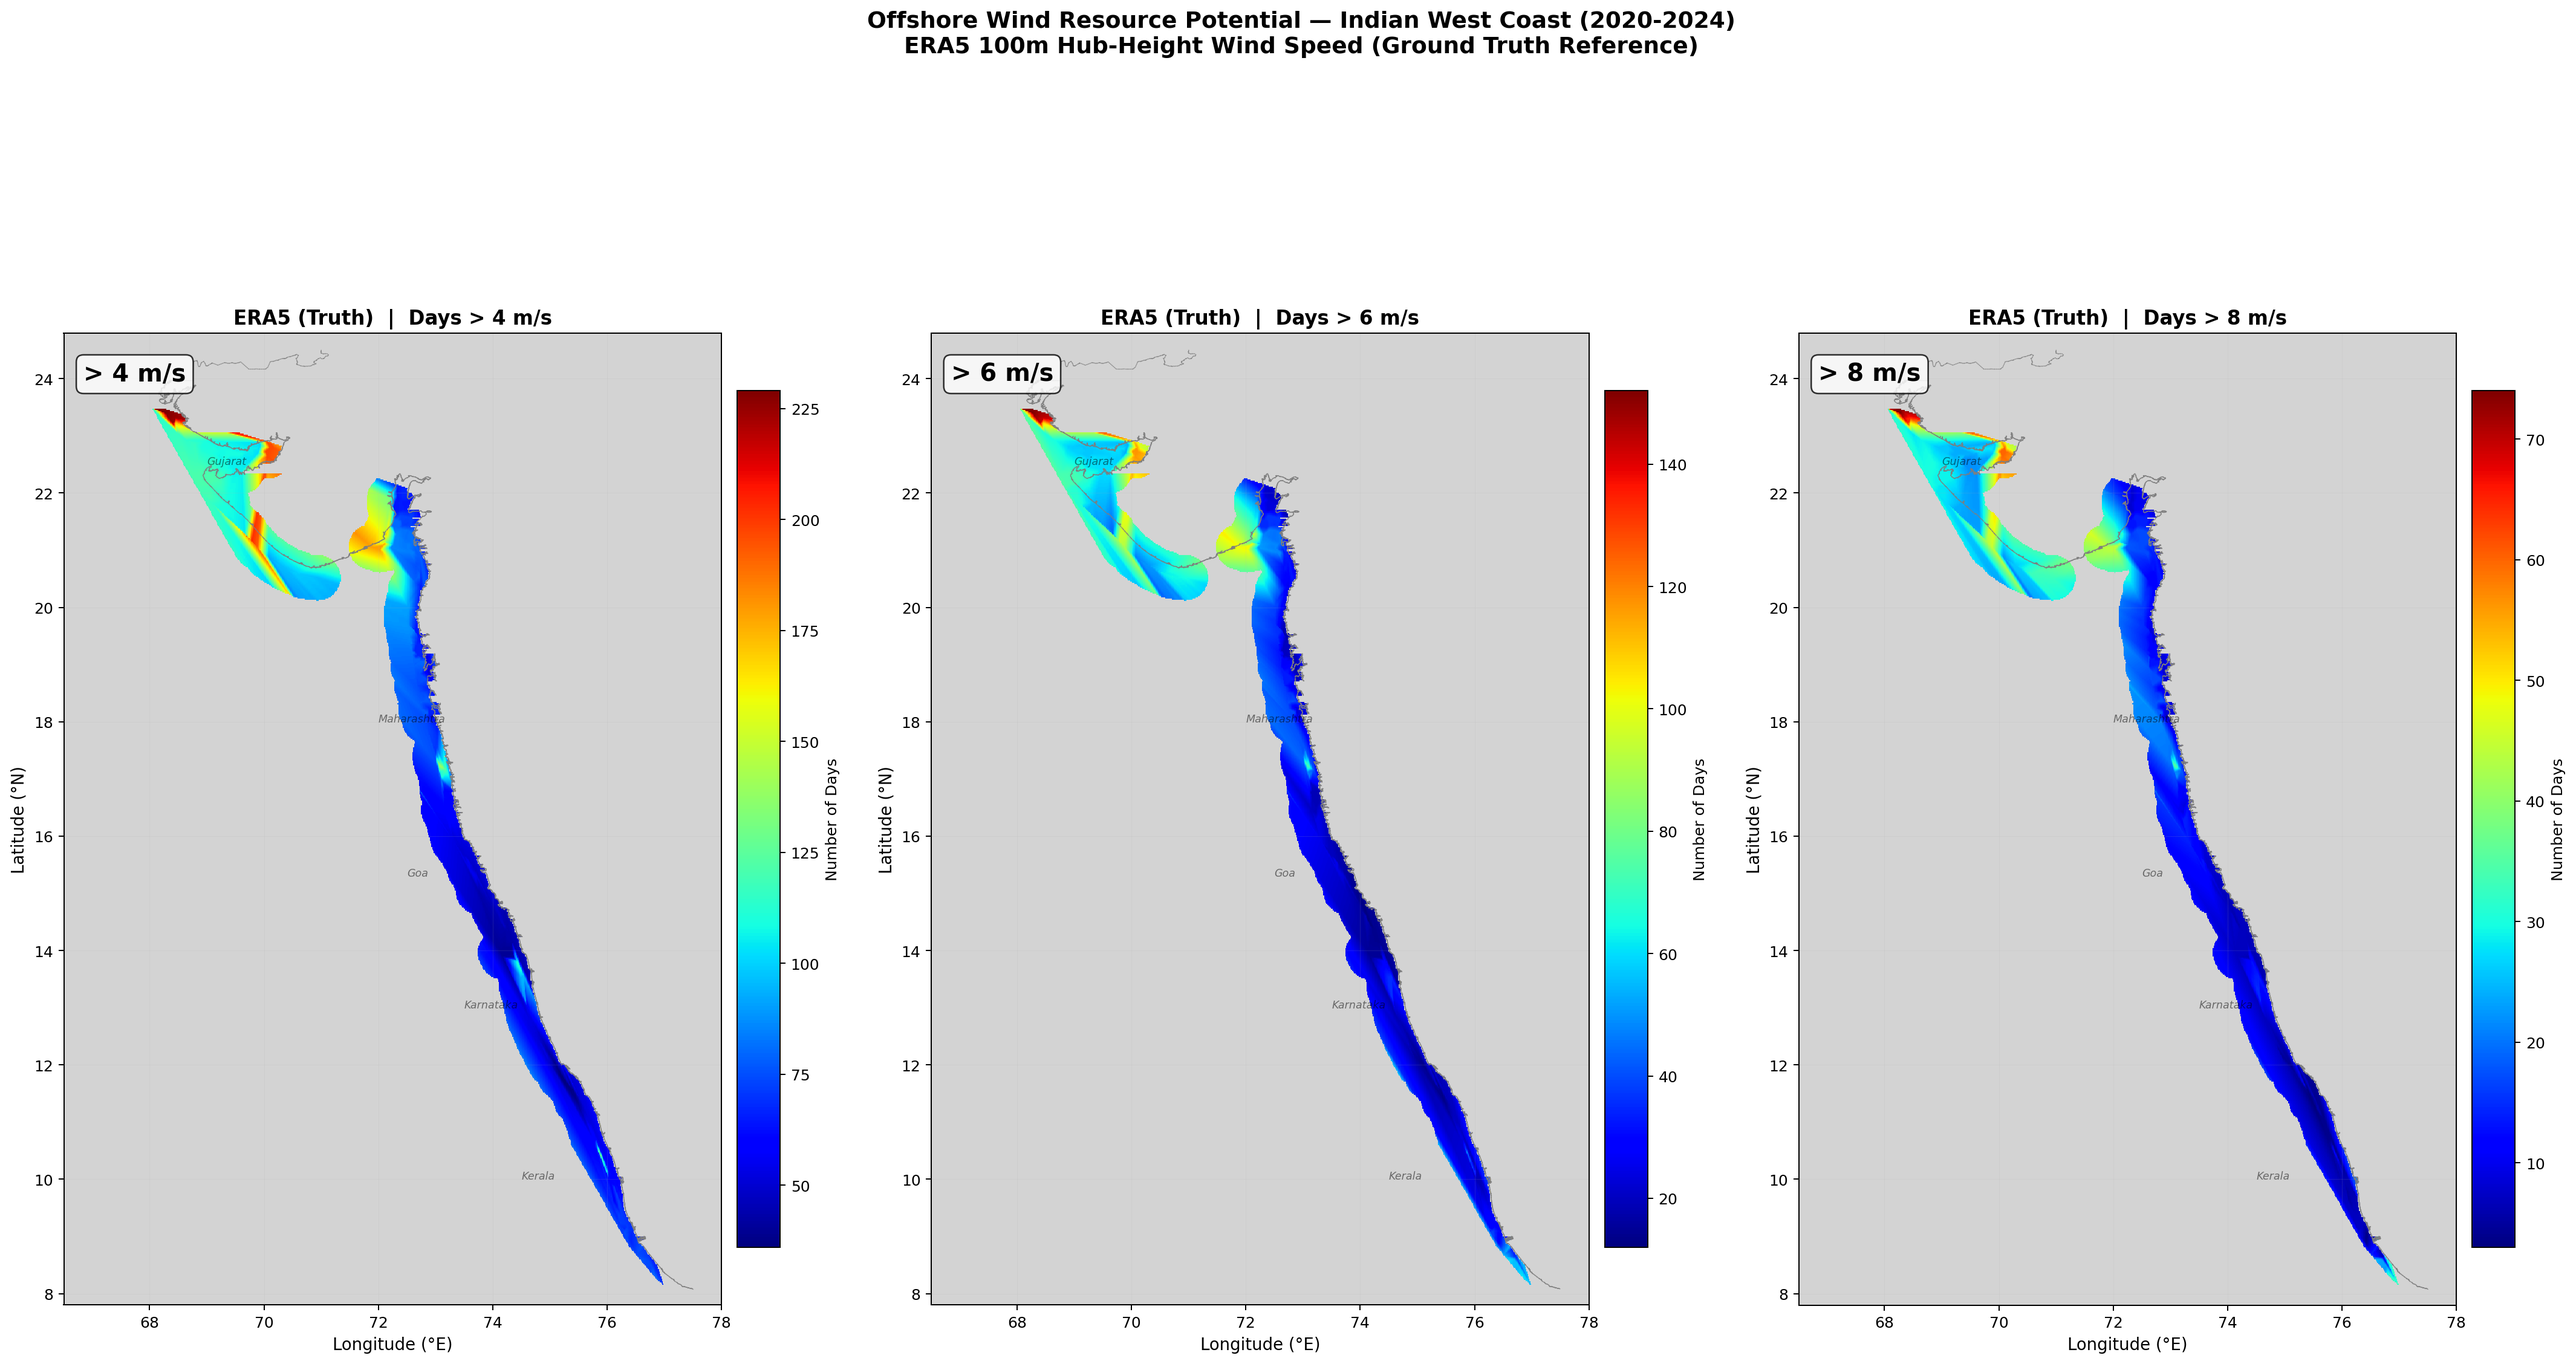
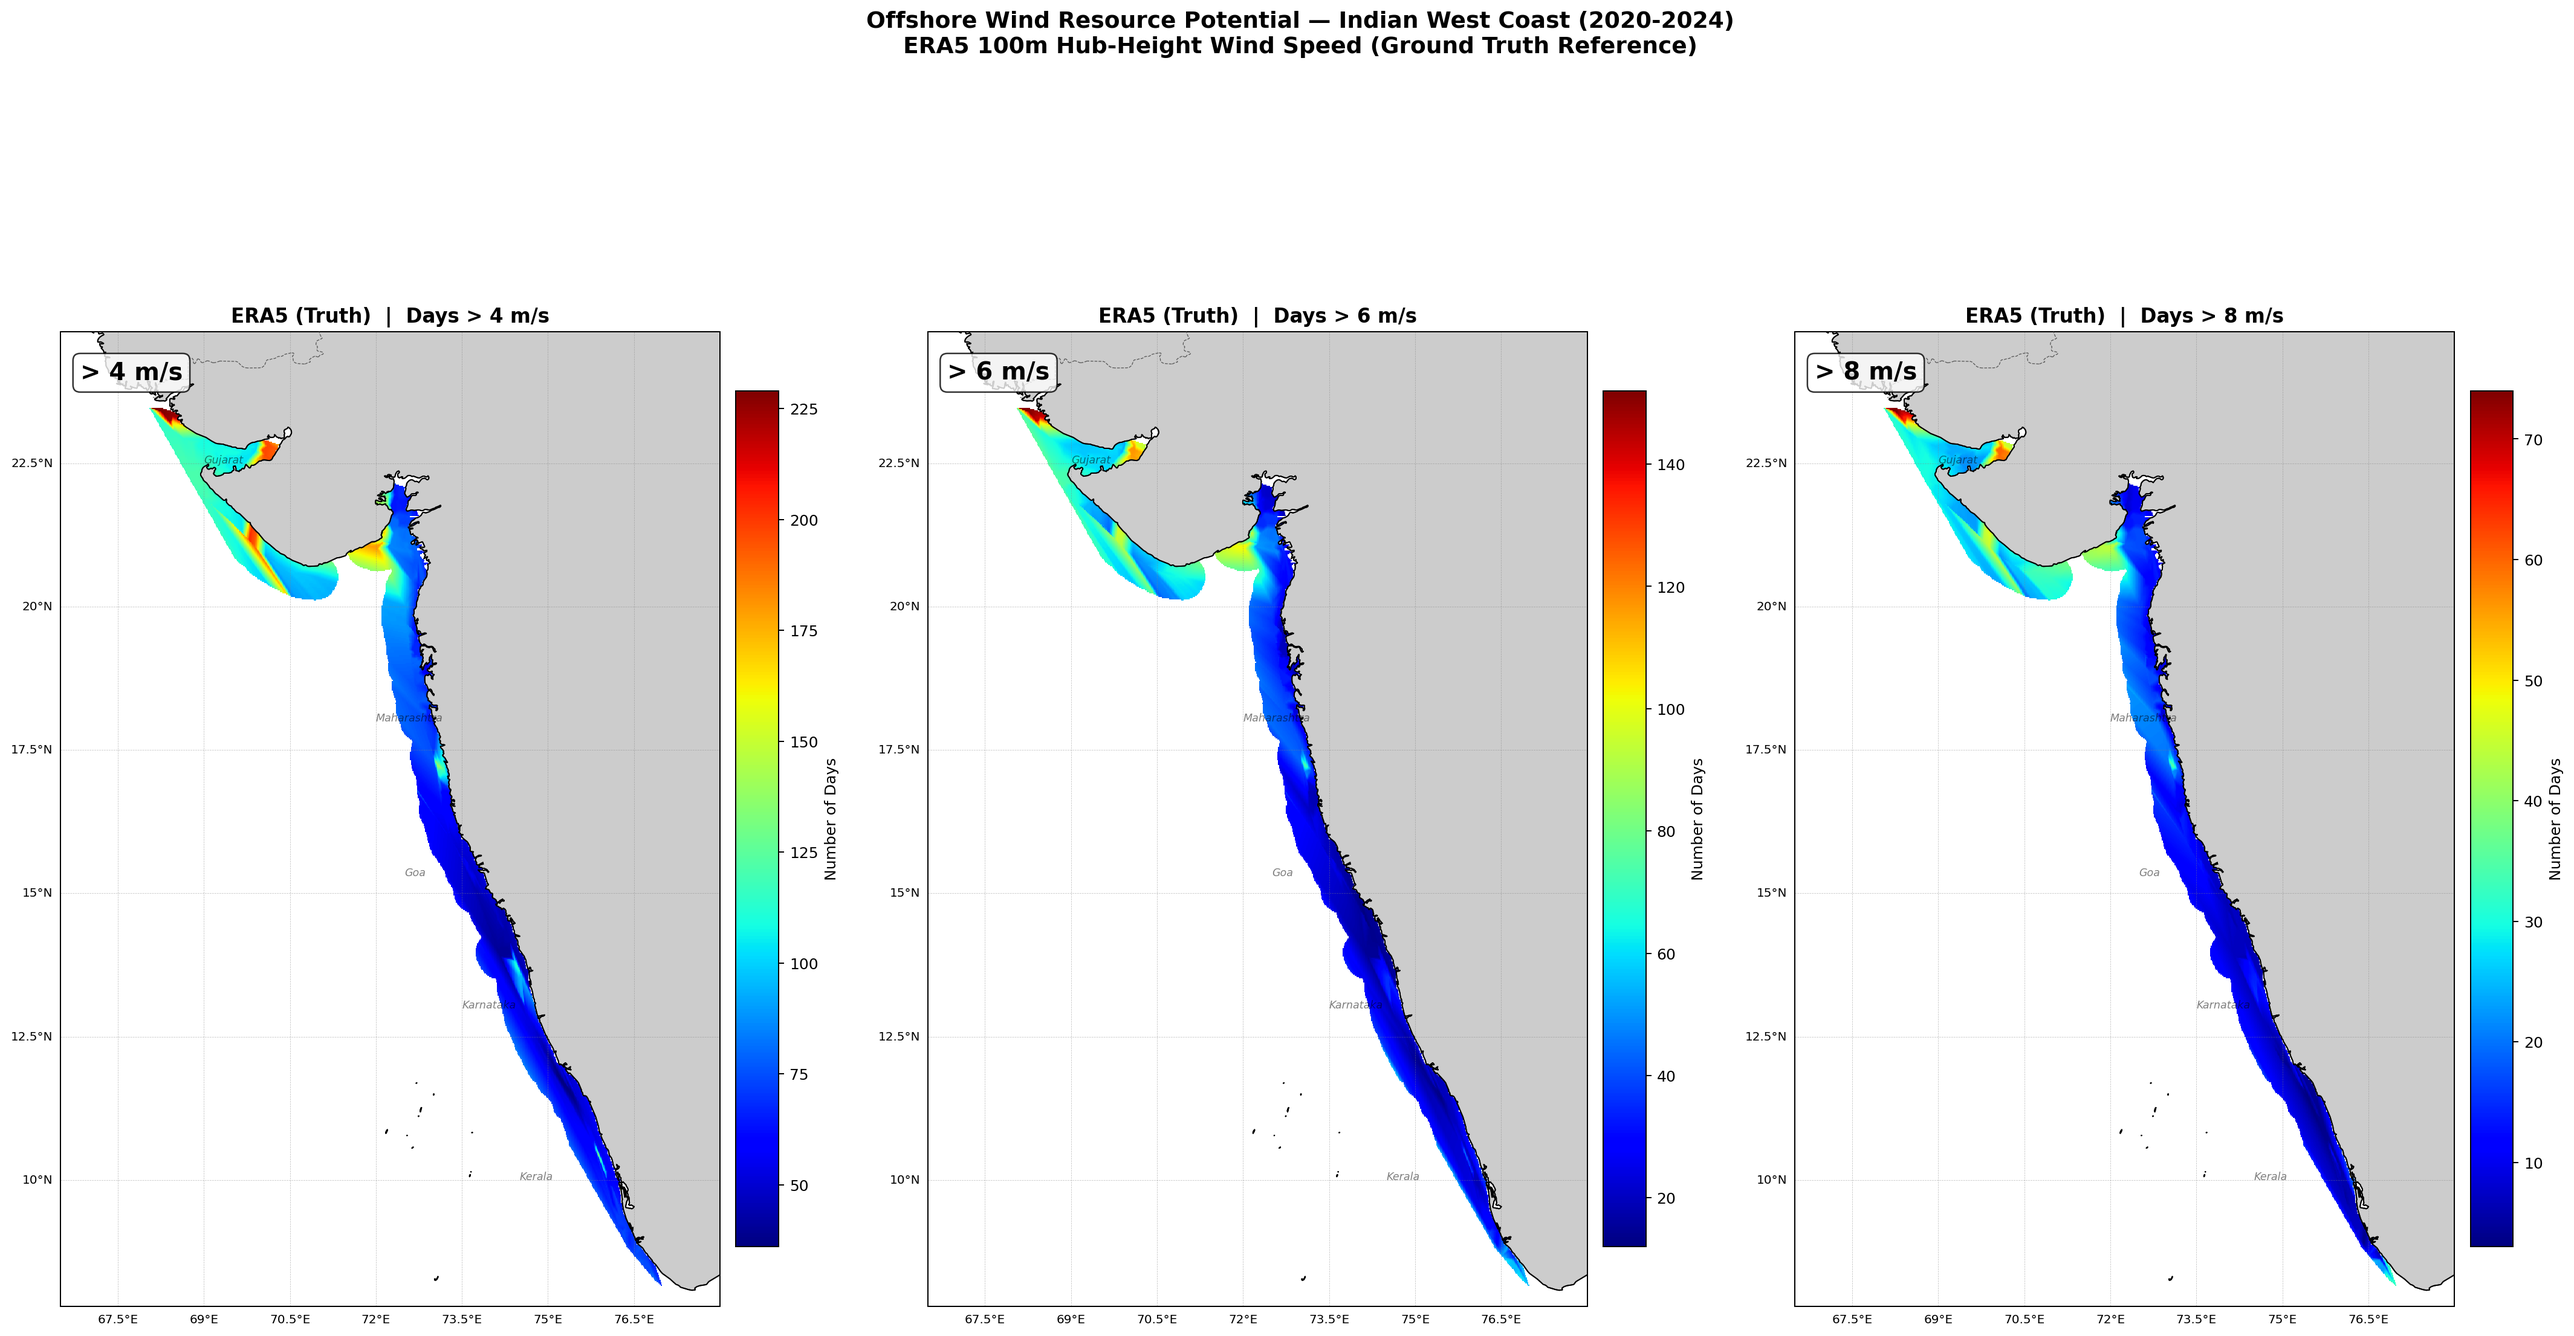
west coast

diff --git a/scripts/ml/stitch_west_coast_heatmap.py b/scripts/ml/stitch_west_coast_heatmap.py
@@ -22,6 +22,15 @@ from scipy.spatial import cKDTree
 
 import torch
 
+try:
+    import cartopy.crs as ccrs
+    import cartopy.feature as cfeature
+    HAS_CARTOPY = True
+    print("Cartopy found")
+except ImportError:
+    HAS_CARTOPY = False
+    print("Cartopy not found — land may bleed onto Gujarat")
+
 PROJECT_ROOT = os.path.dirname(os.path.dirname(os.path.dirname(os.path.abspath(__file__))))
 sys.path.insert(0, PROJECT_ROOT)
 
@@ -241,7 +250,12 @@ def main():
 
     # ── Plot function ─────────────────────────────────────────────
     def make_map(cols, title_prefix, filename, subtitle):
-        fig, axes = plt.subplots(1, 3, figsize=(24, 14))
+        if HAS_CARTOPY:
+            proj = ccrs.PlateCarree()
+            fig, axes = plt.subplots(1, 3, figsize=(24, 14),
+                                     subplot_kw={"projection": proj})
+        else:
+            fig, axes = plt.subplots(1, 3, figsize=(24, 14))
 
         for ax, (col, label) in zip(axes, cols):
             values = combined[col].values
@@ -251,23 +265,38 @@ def main():
             grid_z[combined_mask] = np.nan
             grid_z = np.clip(grid_z, 0, None)
 
-            im = ax.pcolormesh(grid_lon, grid_lat, grid_z, cmap='jet',
-                                shading='auto')
+            if HAS_CARTOPY:
+                im = ax.pcolormesh(grid_lon, grid_lat, grid_z, cmap='jet',
+                                    shading='auto', transform=proj, zorder=1)
+                ax.add_feature(cfeature.LAND.with_scale("10m"),
+                               facecolor="#cccccc", edgecolor="black",
+                               linewidth=0.7, zorder=2)
+                ax.add_feature(cfeature.COASTLINE.with_scale("10m"),
+                               edgecolor="black", linewidth=0.8, zorder=3)
+                ax.add_feature(cfeature.BORDERS.with_scale("10m"),
+                               edgecolor="#555555", linewidth=0.5,
+                               linestyle="--", zorder=3)
+                ax.set_extent([66.5, 78.0, 7.8, 24.8], crs=proj)
+                gl = ax.gridlines(draw_labels=True, linewidth=0.3,
+                                  color="gray", alpha=0.5, linestyle="--")
+                gl.top_labels = False
+                gl.right_labels = False
+                gl.xlabel_style = {"color": "black", "size": 8}
+                gl.ylabel_style = {"color": "black", "size": 8}
+            else:
+                im = ax.pcolormesh(grid_lon, grid_lat, grid_z, cmap='jet',
+                                    shading='auto')
+                for seg in all_coast_segments:
+                    lons, lats = zip(*seg)
+                    ax.plot(lons, lats, color='gray', linewidth=0.5, alpha=0.6)
+                ax.set_xlim(66.5, 78.0)
+                ax.set_ylim(7.8, 24.8)
 
-            # Draw all coastlines
-            for seg in all_coast_segments:
-                lons, lats = zip(*seg)
-                ax.plot(lons, lats, color='gray', linewidth=0.5, alpha=0.6)
-
-            ax.set_xlim(66.5, 78.0)
-            ax.set_ylim(7.8, 24.8)
             ax.set_xlabel('Longitude (°E)', fontsize=11)
             ax.set_ylabel('Latitude (°N)', fontsize=11)
             ax.set_title(f'{title_prefix}  |  Days {label}',
                          fontsize=13, fontweight='bold')
-            ax.set_aspect('equal')
-            ax.set_facecolor('lightgray')
-            ax.grid(True, alpha=0.2, linewidth=0.3)
+            ax.set_facecolor('white')
 
             ax.text(0.03, 0.97, f'{label}', transform=ax.transAxes,
                     fontsize=16, fontweight='bold', verticalalignment='top',
